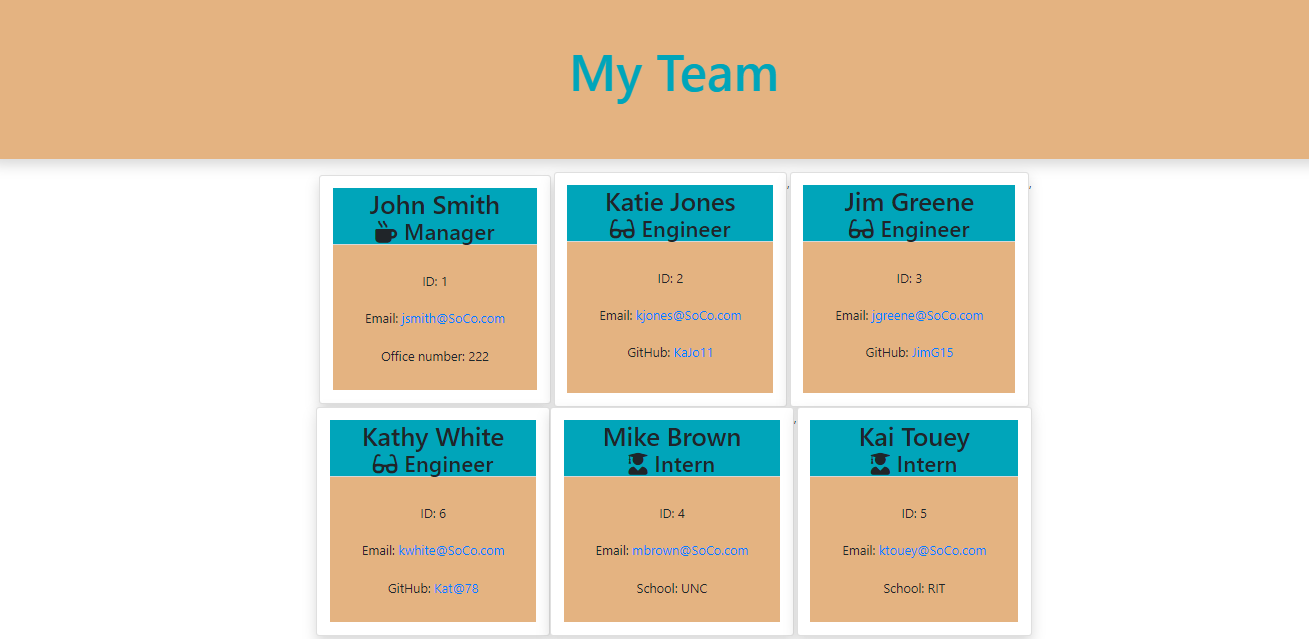
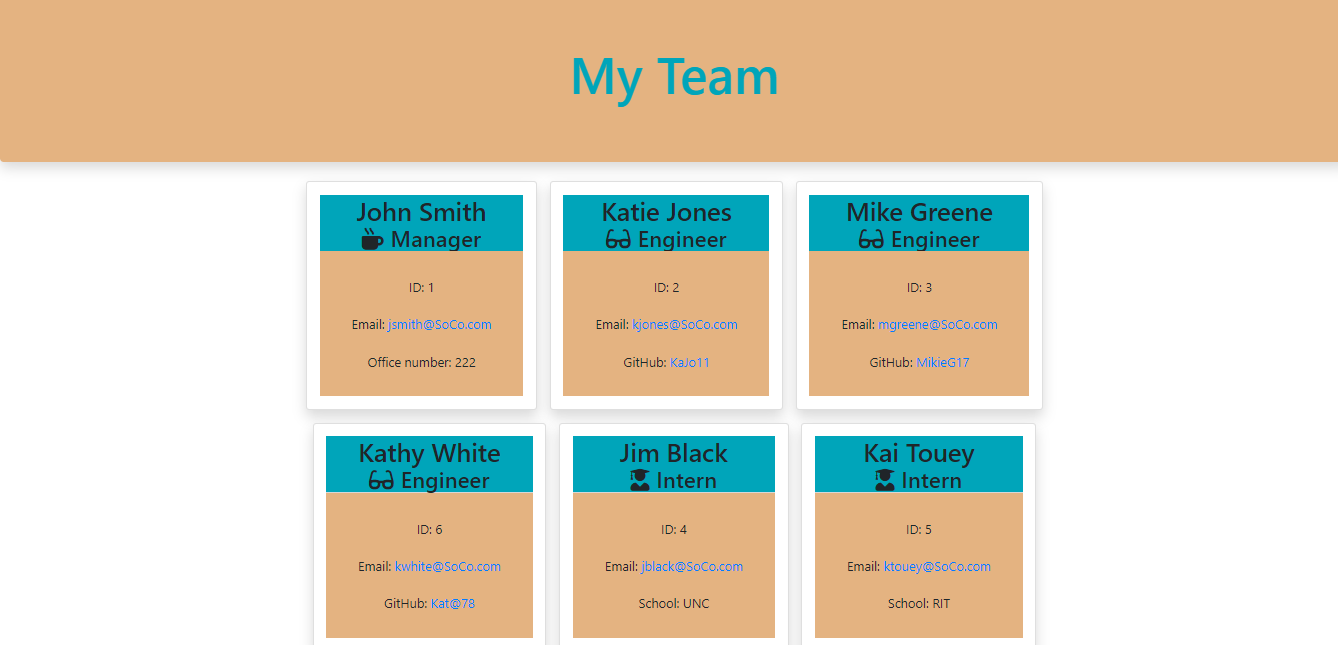
Katie comma update and new pic

Changed region(s): [[0.0, 0.2379, 1.0, 1.0], [0.4278, 0.0892, 0.6112, 0.1784]]

diff --git a/output/test.html b/output/test.html
@@ -38,7 +38,7 @@
 </head>
 <body>
 <!-- read with fs readfile, string replace of values from inquirer into {}, writeFile as html -->
-    <div class="card employee-card shadow p-3 m-1">
+    <div class="card employee-card shadow p-3 m-2">
         <div class="card-header p-0">
             <h2 class="card-title mb-0 bg-info text-center">John Smith</h2>
             <h3 class="card-title mb-0 bg-info text-center"><i class="fas fa-mug-hot mr-2"></i>Manager</h3>
@@ -56,7 +56,7 @@
 
 
 
-<div class="card employee-card shadow p-3">
+<div class="card employee-card shadow p-3 m-2">
     <div class="card-header" style="padding: 0px;">
         <h2 class="card-title mb-0 bg-info text-center">Katie Jones</h2>
         <h3 class="card-title mb-0 bg-info text-center"><i class="fas fa-glasses mr-2"></i>Engineer</h3>
@@ -70,27 +70,27 @@
     </div>
 </div>
 
-,
 
 
-<div class="card employee-card shadow p-3">
+
+<div class="card employee-card shadow p-3 m-2">
     <div class="card-header" style="padding: 0px;">
-        <h2 class="card-title mb-0 bg-info text-center">Jim Greene</h2>
+        <h2 class="card-title mb-0 bg-info text-center">Mike Greene</h2>
         <h3 class="card-title mb-0 bg-info text-center"><i class="fas fa-glasses mr-2"></i>Engineer</h3>
     </div>
     <div class="card-body text-center" style="background-color: rgb(219, 181, 130)">
         <ul class="list-group">
             <li class="list-group-item">ID: 3</li>
-            <li class="list-group-item">Email: <a href="mailto:jgreene@SoCo.com">jgreene@SoCo.com</a></li>
-            <li class="list-group-item">GitHub: <a href="https://github.com/JimG15" target="_blank" rel="noopener noreferrer">JimG15</a></li>
+            <li class="list-group-item">Email: <a href="mailto:mgreene@SoCo.com">mgreene@SoCo.com</a></li>
+            <li class="list-group-item">GitHub: <a href="https://github.com/MikieG17" target="_blank" rel="noopener noreferrer">MikieG17</a></li>
         </ul>
     </div>
 </div>
 
-,
 
 
-<div class="card employee-card shadow p-3">
+
+<div class="card employee-card shadow p-3 m-2">
     <div class="card-header" style="padding: 0px;">
         <h2 class="card-title mb-0 bg-info text-center">Kathy White</h2>
         <h3 class="card-title mb-0 bg-info text-center"><i class="fas fa-glasses mr-2"></i>Engineer</h3>
@@ -105,21 +105,21 @@
 </div>
 
 
-        <div class="card employee-card shadow p-3">
+        <div class="card employee-card shadow p-3 m-2">
             <div class="card-header p-0">
-                <h2 class="card-title mb-0 bg-info text-center">Mike Brown</h2>
+                <h2 class="card-title mb-0 bg-info text-center">Jim Black</h2>
                 <h3 class="card-title mb-0 bg-info text-center"><i class="fas fa-user-graduate mr-2"></i>Intern</h3>
             </div>
             <div class="card-body text-center" style="background-color: rgb(219, 181, 130)">
                 <ul class="list-group">
                     <li class="list-group-item">ID: 4</li>
-                    <li class="list-group-item">Email: <a href="mailto:mbrown@SoCo.com">mbrown@SoCo.com</a></li>
+                    <li class="list-group-item">Email: <a href="mailto:jblack@SoCo.com">jblack@SoCo.com</a></li>
                     <li class="list-group-item">School: UNC</li>
                 </ul>
             </div>
         </div>
-,
-        <div class="card employee-card shadow p-3">
+
+        <div class="card employee-card shadow p-3 m-2">
             <div class="card-header p-0">
                 <h2 class="card-title mb-0 bg-info text-center">Kai Touey</h2>
                 <h3 class="card-title mb-0 bg-info text-center"><i class="fas fa-user-graduate mr-2"></i>Intern</h3>

diff --git a/lib/htmlRenderer.js b/lib/htmlRenderer.js
@@ -9,14 +9,14 @@ const render = employees => {
   html.push(employees
     .filter(employee => employee.getRole() === "Manager")
     .map(manager => renderManager(manager))
-  );
+  .join(""));
   html.push(employees
     .filter(employee => employee.getRole() === "Engineer")
-    .map(engineer => renderEngineer(engineer))
+    .map(engineer => renderEngineer(engineer)).join("")
   );
   html.push(employees
     .filter(employee => employee.getRole() === "Intern")
-    .map(intern => renderIntern(intern))
+    .map(intern => renderIntern(intern)).join("")
   );
 
   return renderMain(html.join(""));

diff --git a/templates/manager.html b/templates/manager.html
@@ -13,7 +13,7 @@
 </head>
 <body>
 <!-- read with fs readfile, string replace of values from inquirer into {}, writeFile as html -->
-    <div class="card employee-card shadow p-3 m-1">
+    <div class="card employee-card shadow p-3 m-2">
         <div class="card-header p-0">
             <h2 class="card-title mb-0 bg-info text-center">{{ name }}</h2>
             <h3 class="card-title mb-0 bg-info text-center"><i class="fas fa-mug-hot mr-2"></i>{{ role }}</h3>

diff --git a/templates/intern.html b/templates/intern.html
@@ -1,5 +1,5 @@
 
-        <div class="card employee-card shadow p-3">
+        <div class="card employee-card shadow p-3 m-2">
             <div class="card-header p-0">
                 <h2 class="card-title mb-0 bg-info text-center">{{ name }}</h2>
                 <h3 class="card-title mb-0 bg-info text-center"><i class="fas fa-user-graduate mr-2"></i>{{ role }}</h3>

diff --git a/templates/engineer.html b/templates/engineer.html
@@ -1,7 +1,7 @@
 
 
 
-<div class="card employee-card shadow p-3">
+<div class="card employee-card shadow p-3 m-2">
     <div class="card-header" style="padding: 0px;">
         <h2 class="card-title mb-0 bg-info text-center">{{ name }}</h2>
         <h3 class="card-title mb-0 bg-info text-center"><i class="fas fa-glasses mr-2"></i>{{ role }}</h3>
